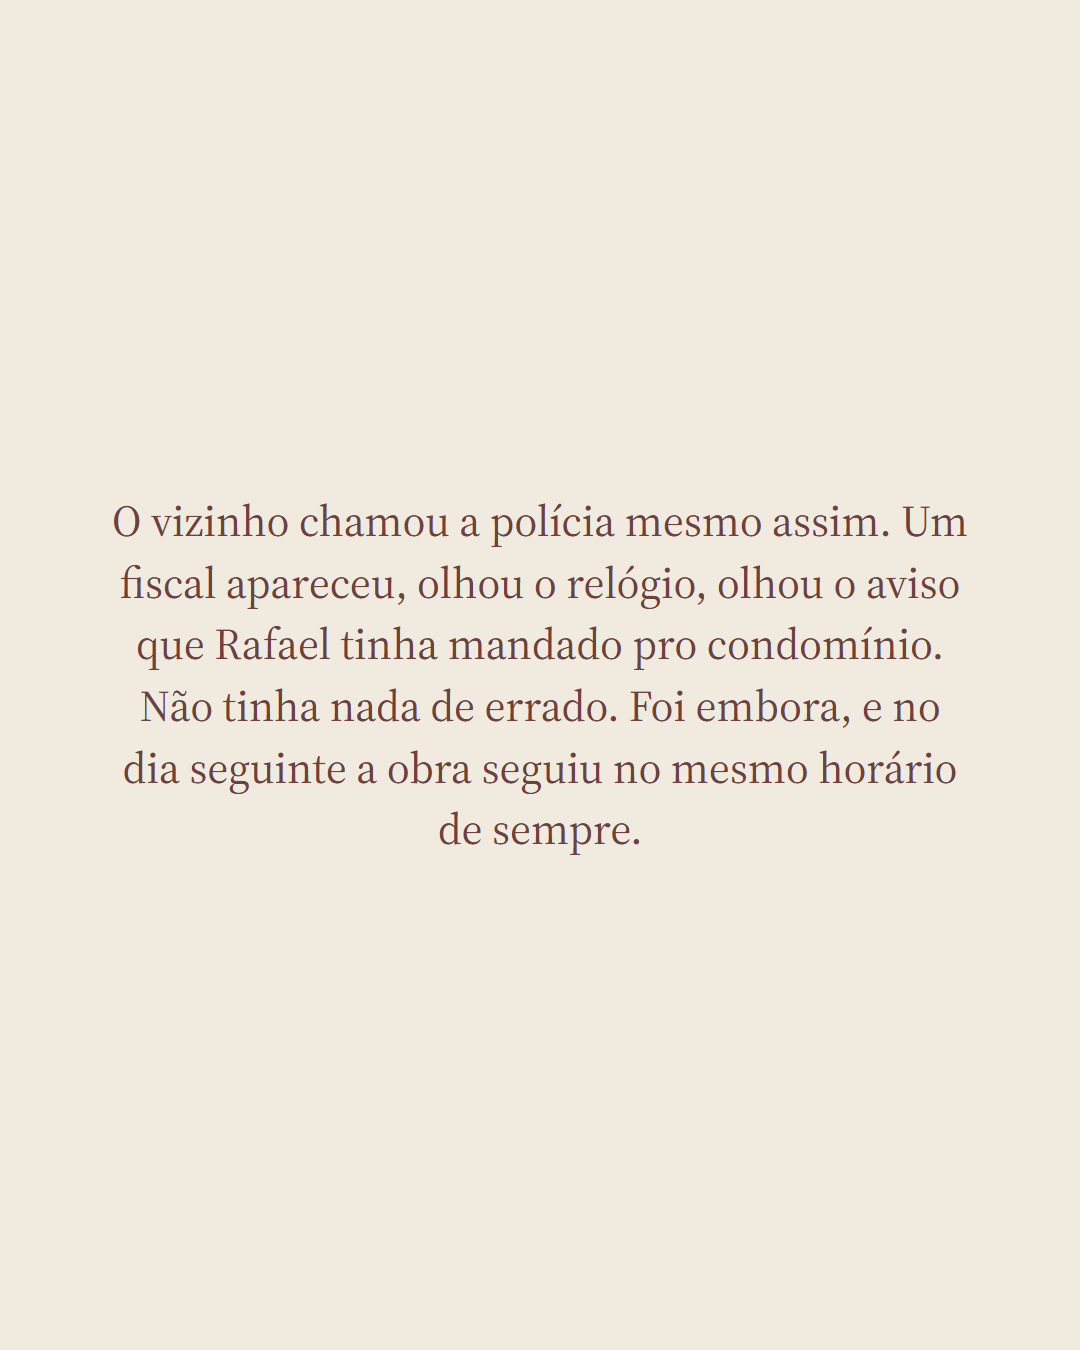
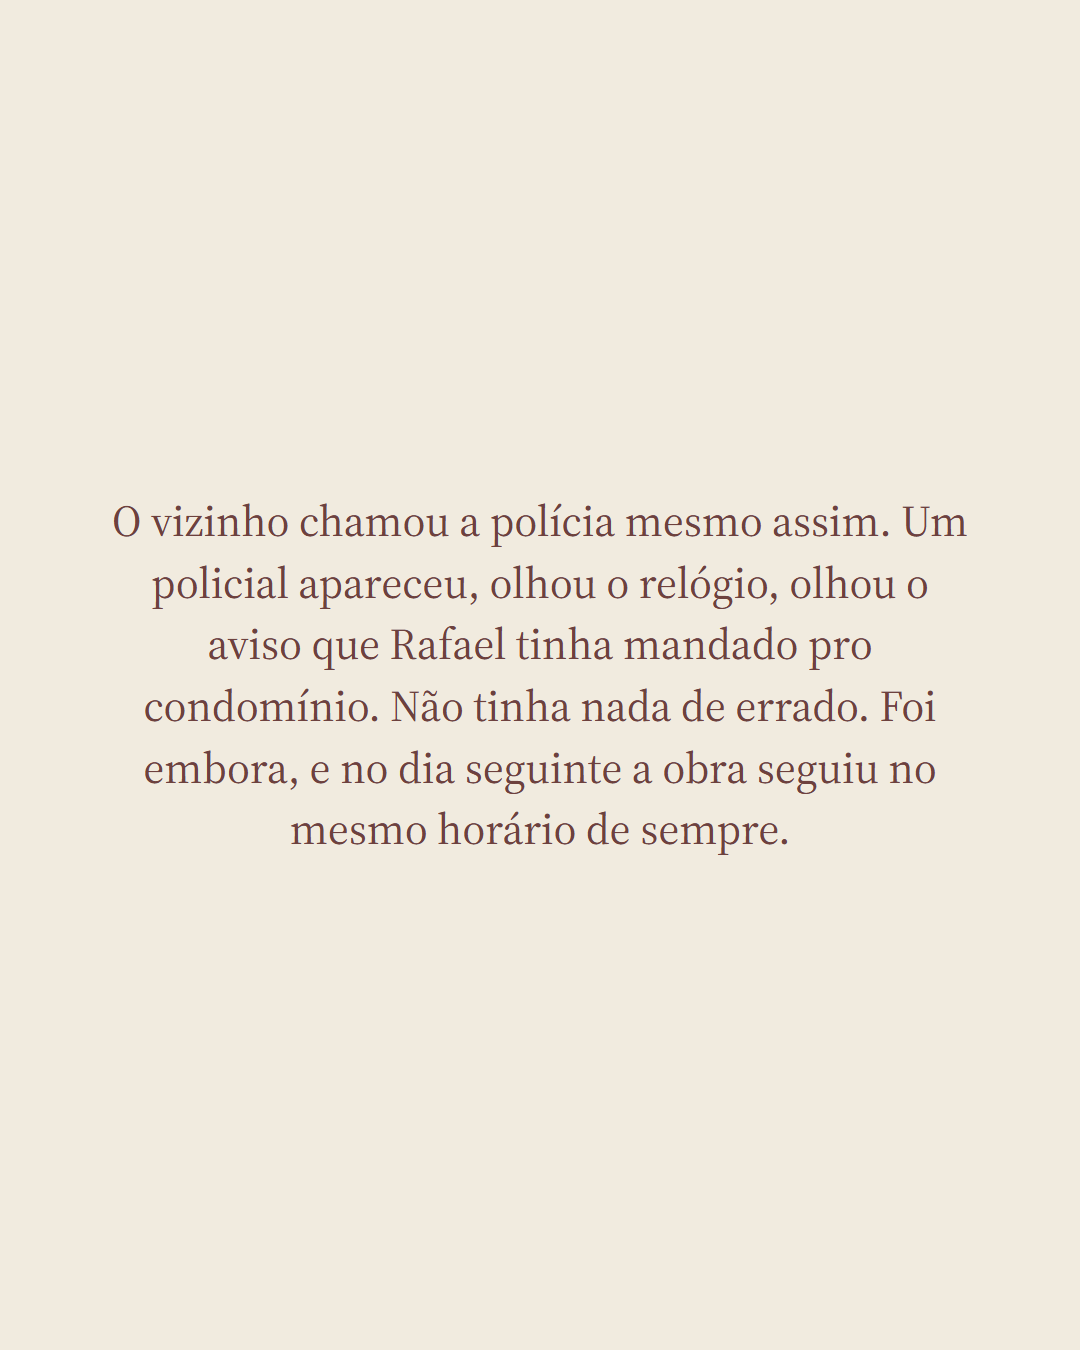
sync: segunda historia da serie publicada, capacidade de stories na skill /postar-instagram

Changed region(s): [[0.1222, 0.4044, 0.8861, 0.6533]]

diff --git a/.claude/skills/Paula_Adv_OS/.agents/skills/postar-instagram/scripts/preparar-story.js b/.claude/skills/Paula_Adv_OS/.agents/skills/postar-instagram/scripts/preparar-story.js
@@ -1,0 +1,70 @@
+// Prepara um story (imagem unica 1080x1920) pra publicar no Instagram. Mesma logica do preparar.js
+// de feed, mas sem carrossel/legenda — stories nao tem legenda, so a imagem.
+//
+// Uso:
+//   node preparar-story.js "<caminho-da-imagem.png>" "<pasta-de-saida-do-estado>"
+//
+// Salva o estado em <pasta-de-saida-do-estado>/.publish-state.json (mesmo formato do feed, o
+// confirmar.js e o apagar.js funcionam igual pros dois).
+
+const fs = require('fs');
+const path = require('path');
+const os = require('os');
+const { execSync } = require('child_process');
+const { loadCreds, graphPost, waitUntilFinished } = require('./lib');
+
+async function main() {
+  const imagePath = process.argv[2];
+  const stateFolder = process.argv[3];
+  if (!imagePath || !stateFolder) {
+    throw new Error('Uso: node preparar-story.js "<imagem.png>" "<pasta-de-saida-do-estado>"');
+  }
+  const absImage = path.resolve(imagePath);
+  const absFolder = path.resolve(stateFolder);
+  if (!fs.existsSync(absImage)) throw new Error(`Imagem nao encontrada: ${absImage}`);
+  fs.mkdirSync(absFolder, { recursive: true });
+
+  const skillRoot = path.join(__dirname, '..');
+  const { token, igUserId } = loadCreds(skillRoot);
+
+  const imgName = path.basename(absImage);
+  const tmpDir = fs.mkdtempSync(path.join(os.tmpdir(), 'ig-story-'));
+  fs.copyFileSync(absImage, path.join(tmpDir, imgName));
+
+  console.log('Publicando imagem no Cloudflare Pages (projeto paula-ig-media)...');
+  execSync(
+    `npx wrangler@latest pages deploy "${tmpDir}" --project-name=paula-ig-media --branch=main --commit-dirty=true`,
+    { encoding: 'utf8', stdio: ['ignore', 'pipe', 'pipe'] }
+  );
+  const baseUrl = 'https://paula-ig-media.pages.dev';
+  const imageUrl = `${baseUrl}/${imgName}`;
+  console.log(`Imagem publicada em: ${imageUrl}`);
+
+  const result = await graphPost(`${igUserId}/media`, {
+    image_url: imageUrl,
+    media_type: 'STORIES',
+  }, token);
+  console.log(`Container criado: ${result.id}`);
+
+  await waitUntilFinished(result.id, token);
+
+  const state = {
+    folder: absFolder,
+    igUserId,
+    creationId: result.id,
+    type: 'story',
+    image: imgName,
+    baseUrl,
+    preparedAt: new Date().toISOString(),
+  };
+  fs.writeFileSync(path.join(absFolder, '.publish-state.json'), JSON.stringify(state, null, 2));
+
+  console.log('\n=== PRONTO PRA REVISAR ===');
+  console.log('Story (sem legenda, stories nao tem texto de legenda).');
+  console.log('Nada foi publicado ainda. Rode confirmar.js na mesma pasta so depois da aprovacao explicita da Paula.');
+}
+
+main().catch(err => {
+  console.error('ERRO:', err.message);
+  process.exit(1);
+});

diff --git a/.claude/skills/Paula_Adv_OS/.claude/skills/postar-instagram/scripts/preparar-story.js b/.claude/skills/Paula_Adv_OS/.claude/skills/postar-instagram/scripts/preparar-story.js
@@ -1,0 +1,70 @@
+// Prepara um story (imagem unica 1080x1920) pra publicar no Instagram. Mesma logica do preparar.js
+// de feed, mas sem carrossel/legenda — stories nao tem legenda, so a imagem.
+//
+// Uso:
+//   node preparar-story.js "<caminho-da-imagem.png>" "<pasta-de-saida-do-estado>"
+//
+// Salva o estado em <pasta-de-saida-do-estado>/.publish-state.json (mesmo formato do feed, o
+// confirmar.js e o apagar.js funcionam igual pros dois).
+
+const fs = require('fs');
+const path = require('path');
+const os = require('os');
+const { execSync } = require('child_process');
+const { loadCreds, graphPost, waitUntilFinished } = require('./lib');
+
+async function main() {
+  const imagePath = process.argv[2];
+  const stateFolder = process.argv[3];
+  if (!imagePath || !stateFolder) {
+    throw new Error('Uso: node preparar-story.js "<imagem.png>" "<pasta-de-saida-do-estado>"');
+  }
+  const absImage = path.resolve(imagePath);
+  const absFolder = path.resolve(stateFolder);
+  if (!fs.existsSync(absImage)) throw new Error(`Imagem nao encontrada: ${absImage}`);
+  fs.mkdirSync(absFolder, { recursive: true });
+
+  const skillRoot = path.join(__dirname, '..');
+  const { token, igUserId } = loadCreds(skillRoot);
+
+  const imgName = path.basename(absImage);
+  const tmpDir = fs.mkdtempSync(path.join(os.tmpdir(), 'ig-story-'));
+  fs.copyFileSync(absImage, path.join(tmpDir, imgName));
+
+  console.log('Publicando imagem no Cloudflare Pages (projeto paula-ig-media)...');
+  execSync(
+    `npx wrangler@latest pages deploy "${tmpDir}" --project-name=paula-ig-media --branch=main --commit-dirty=true`,
+    { encoding: 'utf8', stdio: ['ignore', 'pipe', 'pipe'] }
+  );
+  const baseUrl = 'https://paula-ig-media.pages.dev';
+  const imageUrl = `${baseUrl}/${imgName}`;
+  console.log(`Imagem publicada em: ${imageUrl}`);
+
+  const result = await graphPost(`${igUserId}/media`, {
+    image_url: imageUrl,
+    media_type: 'STORIES',
+  }, token);
+  console.log(`Container criado: ${result.id}`);
+
+  await waitUntilFinished(result.id, token);
+
+  const state = {
+    folder: absFolder,
+    igUserId,
+    creationId: result.id,
+    type: 'story',
+    image: imgName,
+    baseUrl,
+    preparedAt: new Date().toISOString(),
+  };
+  fs.writeFileSync(path.join(absFolder, '.publish-state.json'), JSON.stringify(state, null, 2));
+
+  console.log('\n=== PRONTO PRA REVISAR ===');
+  console.log('Story (sem legenda, stories nao tem texto de legenda).');
+  console.log('Nada foi publicado ainda. Rode confirmar.js na mesma pasta so depois da aprovacao explicita da Paula.');
+}
+
+main().catch(err => {
+  console.error('ERRO:', err.message);
+  process.exit(1);
+});

diff --git a/.claude/skills/Paula_Adv_OS/conteudo/instagram/stories/barulho-obra-vizinho/story-teaser.html b/.claude/skills/Paula_Adv_OS/conteudo/instagram/stories/barulho-obra-vizinho/story-teaser.html
@@ -1,0 +1,46 @@
+<!doctype html>
+<html lang="pt-br">
+<head>
+<meta charset="utf-8">
+<style>
+  @import url('https://fonts.googleapis.com/css2?family=Source+Serif+4:ital,opsz,wght@0,8..60,400;0,8..60,600;1,8..60,400&display=swap');
+  * { box-sizing: border-box; margin: 0; padding: 0; }
+  html, body {
+    width: 1080px; height: 1920px;
+    background: #F26F4D;
+    color: #FFFFFF;
+    font-family: 'Source Serif 4', serif;
+  }
+  .frame {
+    width: 1080px; height: 1920px;
+    display: flex; flex-direction: column; align-items: center; justify-content: center;
+    padding: 0 100px;
+  }
+  .kicker {
+    font-size: 44px; font-style: italic; font-weight: 400;
+    color: #6D413E; margin-bottom: 24px; display: block;
+  }
+  .title {
+    font-size: 76px; line-height: 1.18; font-weight: 600; text-align: center;
+  }
+  .cta-block {
+    position: absolute; left: 0; right: 0; bottom: 330px;
+    display: flex; justify-content: center;
+  }
+  .cta {
+    font-size: 40px; line-height: 1.4; text-align: center; max-width: 780px;
+    font-style: italic; color: #FFFFFF;
+  }
+  .cta strong { display: block; font-style: normal; font-weight: 600; margin-bottom: 10px; color: #6D413E; }
+</style>
+</head>
+<body>
+  <div class="frame">
+    <span class="kicker">Era uma vez...</span>
+    <div class="title">um vizinho que jurou<br>chamar a polícia</div>
+  </div>
+  <div class="cta-block">
+    <div class="cta"><strong>Primeira história da série.</strong>Já tá no feed, vem ler.</div>
+  </div>
+</body>
+</html>

diff --git a/.claude/skills/Paula_Adv_OS/conteudo/instagram/carrossel/barulho-obra-vizinho/slide-06.html b/.claude/skills/Paula_Adv_OS/conteudo/instagram/carrossel/barulho-obra-vizinho/slide-06.html
@@ -44,6 +44,6 @@
 </style>
 </head>
 <body>
-  <div class="wrap"><div class="block "><p>O vizinho chamou a polícia mesmo assim. Um fiscal apareceu, olhou o relógio, olhou o aviso que Rafael tinha mandado pro condomínio. Não tinha nada de errado. Foi embora, e no dia seguinte a obra seguiu no mesmo horário de sempre.</p></div></div>
+  <div class="wrap"><div class="block "><p>O vizinho chamou a polícia mesmo assim. Um policial apareceu, olhou o relógio, olhou o aviso que Rafael tinha mandado pro condomínio. Não tinha nada de errado. Foi embora, e no dia seguinte a obra seguiu no mesmo horário de sempre.</p></div></div>
 </body>
 </html>

diff --git a/.claude/skills/Paula_Adv_OS/_contexto/agora.md b/.claude/skills/Paula_Adv_OS/_contexto/agora.md
@@ -13,6 +13,10 @@ ficcionalizados, Paula como personagem ativo) e um formato inspirado na trend "A
 Instagram, quinta blog + Instagram, a partir de 21/09/2026 (ver
 `conteudo/estrategia-retomada/README.md`). Reels e o lançamento da ferramenta "Contrato na Régua"
 ficam pausados por decisão da Paula, retomar quando ela sinalizar.
+Segunda história da série publicada (18/09, "vizinho que jurou chamar a polícia"). Skill
+`/postar-instagram` ganhou capacidade de stories (`preparar-story.js`), mas pra compartilhar um post
+que já está no feed a Paula prefere o "compartilhar" nativo do app (card clicável) em vez da arte
+customizada — a arte fica reservada pra quando não tiver post de feed pra puxar.
 Novo pedido de desenho industrial do Leonardo Zanatta protocolado (sofá, BR 30 2026 007020-4) e relatório de andamento consolidado atualizado e republicado no Cloudflare Pages.
 
 ## Decisões recentes
@@ -36,6 +40,7 @@ Novo pedido de desenho industrial do Leonardo Zanatta protocolado (sofá, BR 30 
 - 2026-09-17: formato "Conto Jurídico"/"Série Real" criado — narrativa "Era uma vez... [situação] que [reviravolta]", inspirada em casos reais das demandas (Supabase) mas totalmente ficcionalizada, com a Paula aparecendo em cena (cliente procura ela, ela aconselha e ajuda a documentar). Cor de capa alterna por conto entre as três cores da marca. Formato "Acho chic" (adaptação da trend viral) também criado, com foto real da Paula na capa/fechamento.
 - 2026-09-17: calendário fixo de postagem definido — terça Instagram, quinta blog + Instagram (mesmo tema), a partir de 21/09/2026. Reels e o lançamento da ferramenta "Contrato na Régua" (gerador de contrato de arquitetura com captura de lead, `ferramentas/contrato-na-regua/`) pausados por decisão da Paula, pra não sobrecarregar a retomada.
 - 2026-09-17: publicado o post #1 da retomada ("Acho chic...") e o artigo semana 2 do blog ("Atraso de obra"). Descoberto que o Wordfence pode travar POST na API do WordPress com fatal error de memória (arquivo `wflogs/rules.php` corrompido) — corrige clicando "atualizar regras manualmente" no painel do Wordfence (ver memória `project_wordfence_bloqueia_post_api`).
+- 2026-09-18: legenda do Instagram não deve recontar a história do carrossel (fica redundante) — deve ser mais curta, com gancho/reflexão que não está nos slides. "Fiscal" trocado por "policial" no conto do vizinho (quem aparece quando alguém liga pra polícia é policial, não fiscal). Skill `/postar-instagram` ganhou stories (`preparar-story.js` + `references/design-story-teaser.md`), mas compartilhar post do feed via story nativo (repost pelo app) é preferível à arte customizada quando o post já existe.
 
 ## Pendências
 - Avaliar conector de WhatsApp Business e integração com Legal One (sem MCP pronto no catálogo ainda).

diff --git a/.claude/skills/Paula_Adv_OS/conteudo/instagram/carrossel/barulho-obra-vizinho/carousel-text.md b/.claude/skills/Paula_Adv_OS/conteudo/instagram/carrossel/barulho-obra-vizinho/carousel-text.md
@@ -19,23 +19,17 @@ Cor de capa: laranja terracota #F26F4D (rodízio de cor por conto — geladeira 
 
 **5.** Montei ali mesmo um aviso por escrito pro síndico e pros vizinhos: cronograma da obra, horário de início e fim, meu contato pra qualquer reclamação formal.
 
-**6.** O vizinho chamou a polícia mesmo assim. Um fiscal apareceu, olhou o relógio, olhou o aviso que Rafael tinha mandado pro condomínio. Não tinha nada de errado. Foi embora, e no dia seguinte a obra seguiu no mesmo horário de sempre.
+**6.** O vizinho chamou a polícia mesmo assim. Um policial apareceu, olhou o relógio, olhou o aviso que Rafael tinha mandado pro condomínio. Não tinha nada de errado. Foi embora, e no dia seguinte a obra seguiu no mesmo horário de sempre.
 
 **7.** Nomes e detalhes trocados pra preservar quem viveu isso de verdade. Mas o que ficou foi isso: a lei já protegia o Rafael antes de mim. O que eu fiz foi só transformar isso em papel, pra ninguém precisar discutir depois.
 
 ## Legenda Instagram
 
-Era uma vez... um vizinho que jurou chamar a polícia. E até chamou.
+Nossa primeira história da série "Era uma vez..."
 
-Um empreiteiro cliente meu me ligou apavorado no meio de uma reforma: vizinho batendo na porta, ameaçando fazer a obra parar. Antes de entrar em pânico, perguntei três coisas: horário, nível de barulho e se ele tinha avisado o condomínio.
+A ideia é trazer, de tempos em tempos, casos reais do escritório transformados em história (nomes e detalhes sempre trocados, claro, pra preservar quem viveu isso de verdade).
 
-Ele tava dentro da lei, mas não tinha avisado ninguém ainda. Resolvemos isso na hora: cronograma por escrito pro síndico e pros vizinhos.
-
-Quando o fiscal apareceu (porque o vizinho chamou mesmo assim), não tinha nada pra multar. A obra seguiu no dia seguinte, no mesmo horário de sempre.
-
-Nomes e detalhes trocados pra preservar quem viveu essa história de verdade.
-
-Já passou por isso? Comenta aqui.
+Acompanhem aqui e contem os "causos" de vocês também.
 
 #advocaciadaconstrucaocivil #direitodevizinhanca #obra #reforma #construcaocivil #direitoimobiliario #condominio #empreiteira #arquitetura #engenharia
 

diff --git a/.claude/skills/Paula_Adv_OS/.agents/skills/postar-instagram/SKILL.md b/.claude/skills/Paula_Adv_OS/.agents/skills/postar-instagram/SKILL.md
@@ -52,7 +52,24 @@ o "postar agora".
 Se o post já foi publicado antes (checar se `.publish-state.json` tem `publishedAt` preenchido), não
 publicar de novo — avisar a Paula.
 
-## Pré-requisitos da pasta
+## Stories
+
+A API do Instagram **não** reproduz o botão nativo "compartilhar pro story" (aquele card clicável
+que abre o post) — isso só existe dentro do app. O equivalente possível é publicar uma imagem própria
+de story (1080x1920) convidando pra ver o post no feed, reaproveitando a arte da capa do carrossel
+como base visual. Ver `references/design-story-teaser.md` pra regras de layout e safe zone.
+
+Fluxo (mesma lógica de dois passos e mesma regra de aprovação explícita do feed):
+
+```bash
+node .claude/skills/postar-instagram/scripts/preparar-story.js "<caminho-da-imagem.png>" "<pasta-de-estado>"
+node .claude/skills/postar-instagram/scripts/confirmar.js "<pasta-de-estado>"
+```
+
+Stories não têm legenda (é só imagem), então não precisa de `carousel-text.md`. Usar uma pasta de
+estado dedicada, ex: `conteudo/instagram/stories/[tema]/`.
+
+## Pré-requisitos da pasta (posts de feed)
 
 A pasta do post precisa ter:
 - `carousel-text.md` com uma seção `## Legenda Instagram` (o texto exato que vira a legenda do post)

diff --git a/.claude/skills/Paula_Adv_OS/.claude/skills/postar-instagram/SKILL.md b/.claude/skills/Paula_Adv_OS/.claude/skills/postar-instagram/SKILL.md
@@ -52,7 +52,24 @@ o "postar agora".
 Se o post já foi publicado antes (checar se `.publish-state.json` tem `publishedAt` preenchido), não
 publicar de novo — avisar a Paula.
 
-## Pré-requisitos da pasta
+## Stories
+
+A API do Instagram **não** reproduz o botão nativo "compartilhar pro story" (aquele card clicável
+que abre o post) — isso só existe dentro do app. O equivalente possível é publicar uma imagem própria
+de story (1080x1920) convidando pra ver o post no feed, reaproveitando a arte da capa do carrossel
+como base visual. Ver `references/design-story-teaser.md` pra regras de layout e safe zone.
+
+Fluxo (mesma lógica de dois passos e mesma regra de aprovação explícita do feed):
+
+```bash
+node .claude/skills/postar-instagram/scripts/preparar-story.js "<caminho-da-imagem.png>" "<pasta-de-estado>"
+node .claude/skills/postar-instagram/scripts/confirmar.js "<pasta-de-estado>"
+```
+
+Stories não têm legenda (é só imagem), então não precisa de `carousel-text.md`. Usar uma pasta de
+estado dedicada, ex: `conteudo/instagram/stories/[tema]/`.
+
+## Pré-requisitos da pasta (posts de feed)
 
 A pasta do post precisa ter:
 - `carousel-text.md` com uma seção `## Legenda Instagram` (o texto exato que vira a legenda do post)

diff --git a/.claude/skills/Paula_Adv_OS/conteudo/estrategia-retomada/README.md b/.claude/skills/Paula_Adv_OS/conteudo/estrategia-retomada/README.md
@@ -154,7 +154,12 @@ bem maior do que parece necessário na hora de escrever o HTML — 44px ficou mi
 108px+ bold é o tamanho que funciona pra um "hook" de capa com foto.
 
 ## Status
-Estratégia definida, execução em andamento. Kickoff: "Acho chic..." publicado em 17/09/2026
-(https://www.instagram.com/p/DdZYurFDS5o/ — republicado depois de corrigir o tamanho do texto da
-capa), conto do vizinho planejado pra 18/09. Calendário fixo terça/quinta a partir de 21/09. Reels e
-lançamento da Contrato na Régua pausados por enquanto, retomar quando a Paula sinalizar.
+Estratégia definida, execução em andamento. Kickoff completo:
+- 17/09/2026 — "Acho chic..." (https://www.instagram.com/p/DdZYurFDS5o/)
+- 18/09/2026 — "Era uma vez... um vizinho que jurou chamar a polícia", primeira história da série
+  (https://www.instagram.com/p/Ddbi2OljuEV/) — legenda ajustada pra anunciar a série ("Acompanhem
+  aqui e contem os causos de vocês também", sem recontar o enredo do carrossel) e corrigido
+  "fiscal" pra "policial" (o vizinho chamou a polícia, não a fiscalização).
+
+Calendário fixo terça/quinta a partir de 21/09. Reels e lançamento da Contrato na Régua pausados por
+enquanto, retomar quando a Paula sinalizar.

diff --git a/.claude/skills/Paula_Adv_OS/.agents/skills/postar-instagram/references/design-story-teaser.md b/.claude/skills/Paula_Adv_OS/.agents/skills/postar-instagram/references/design-story-teaser.md
@@ -1,0 +1,20 @@
+# Design do story-teaser
+
+Story de chamada pra um post do feed (carrossel ou post fixo), reaproveitando a arte da capa já
+produzida em vez de criar um visual novo do zero.
+
+## Formato
+- 1080x1920, mesma paleta e fonte do post original (`marca/design-guide.md`)
+- Reaproveitar o texto/estilo da capa do post (ex: "Era uma vez... [título]") como elemento central,
+  mantendo a mesma cor de fundo do post que está sendo anunciado
+- CTA no terço inferior, dentro da safe zone: frase curta convidando pra ver o post completo no
+  feed (ex: "primeira história da série. já tá no feed.", "olha o carrossel completo lá no feed")
+  — nunca "arrasta pra cima" (gesto antigo, não existe mais) nem CTA de captação direta
+
+## Safe zones (não colocar texto/elemento importante nessas áreas — ficam cobertas pela UI nativa do Instagram)
+- Topo: ~250px (foto de perfil, nome, botão fechar)
+- Base: ~250px (caixa de resposta/reply)
+
+## Regra de CTA
+Nunca "me chama", "me procure", "manda mensagem" — sempre convite de engajamento ou de ida ao feed
+(ver `feedback_cta_oab_etica`).

diff --git a/.claude/skills/Paula_Adv_OS/.claude/skills/postar-instagram/references/design-story-teaser.md b/.claude/skills/Paula_Adv_OS/.claude/skills/postar-instagram/references/design-story-teaser.md
@@ -1,0 +1,20 @@
+# Design do story-teaser
+
+Story de chamada pra um post do feed (carrossel ou post fixo), reaproveitando a arte da capa já
+produzida em vez de criar um visual novo do zero.
+
+## Formato
+- 1080x1920, mesma paleta e fonte do post original (`marca/design-guide.md`)
+- Reaproveitar o texto/estilo da capa do post (ex: "Era uma vez... [título]") como elemento central,
+  mantendo a mesma cor de fundo do post que está sendo anunciado
+- CTA no terço inferior, dentro da safe zone: frase curta convidando pra ver o post completo no
+  feed (ex: "primeira história da série. já tá no feed.", "olha o carrossel completo lá no feed")
+  — nunca "arrasta pra cima" (gesto antigo, não existe mais) nem CTA de captação direta
+
+## Safe zones (não colocar texto/elemento importante nessas áreas — ficam cobertas pela UI nativa do Instagram)
+- Topo: ~250px (foto de perfil, nome, botão fechar)
+- Base: ~250px (caixa de resposta/reply)
+
+## Regra de CTA
+Nunca "me chama", "me procure", "manda mensagem" — sempre convite de engajamento ou de ida ao feed
+(ver `feedback_cta_oab_etica`).
